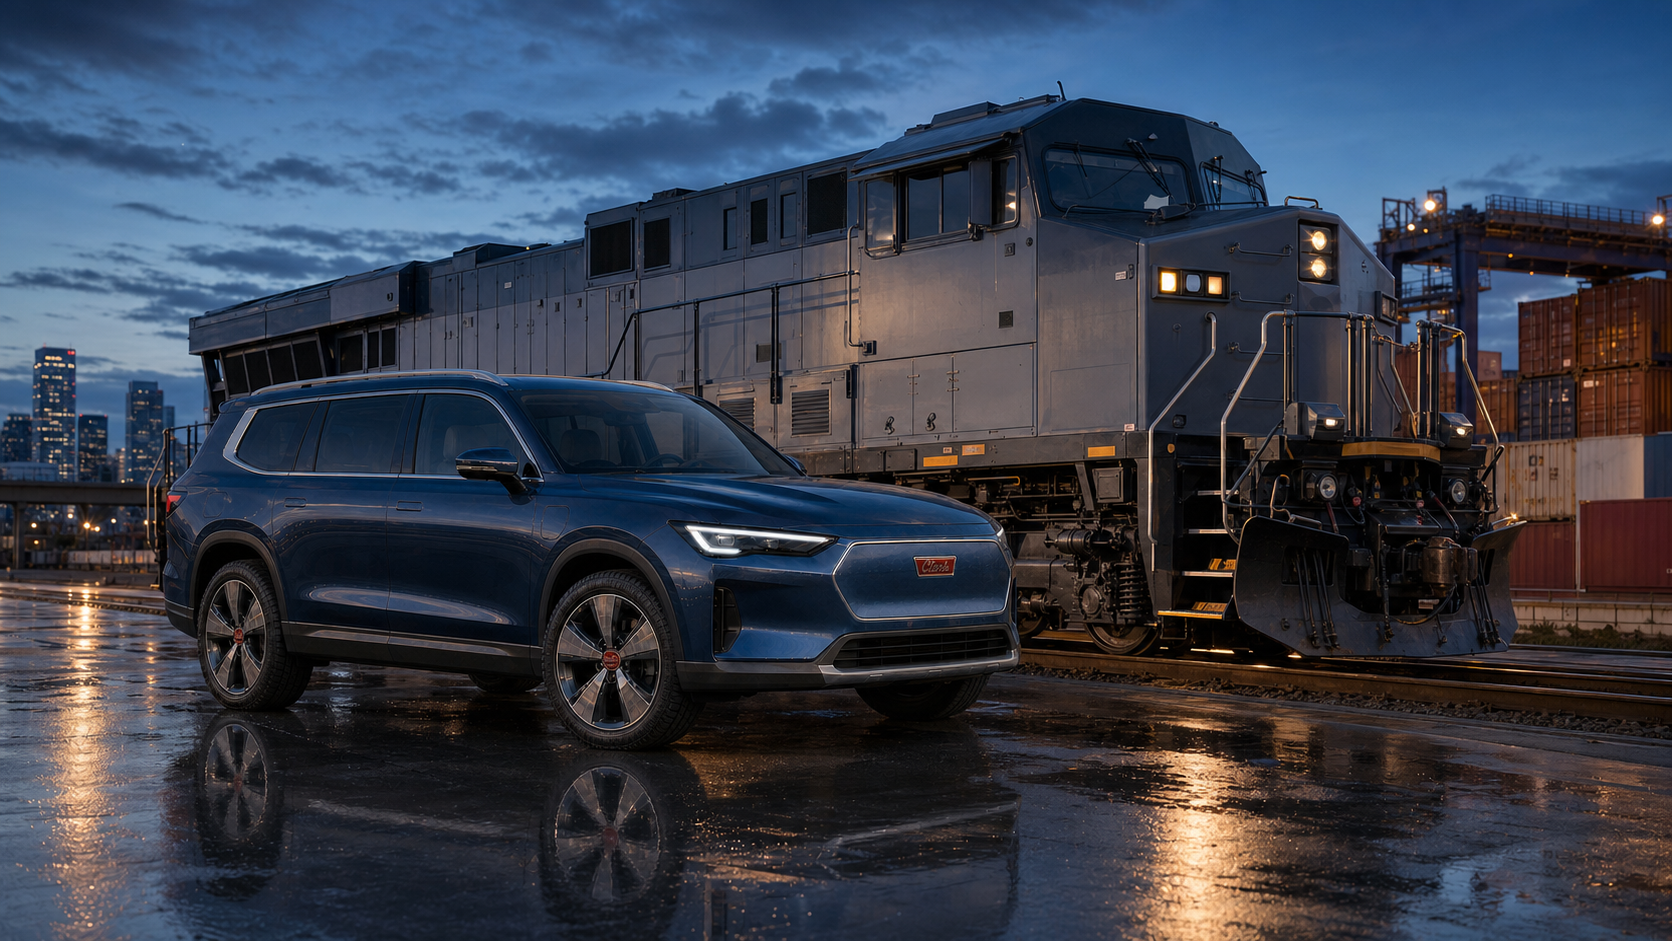
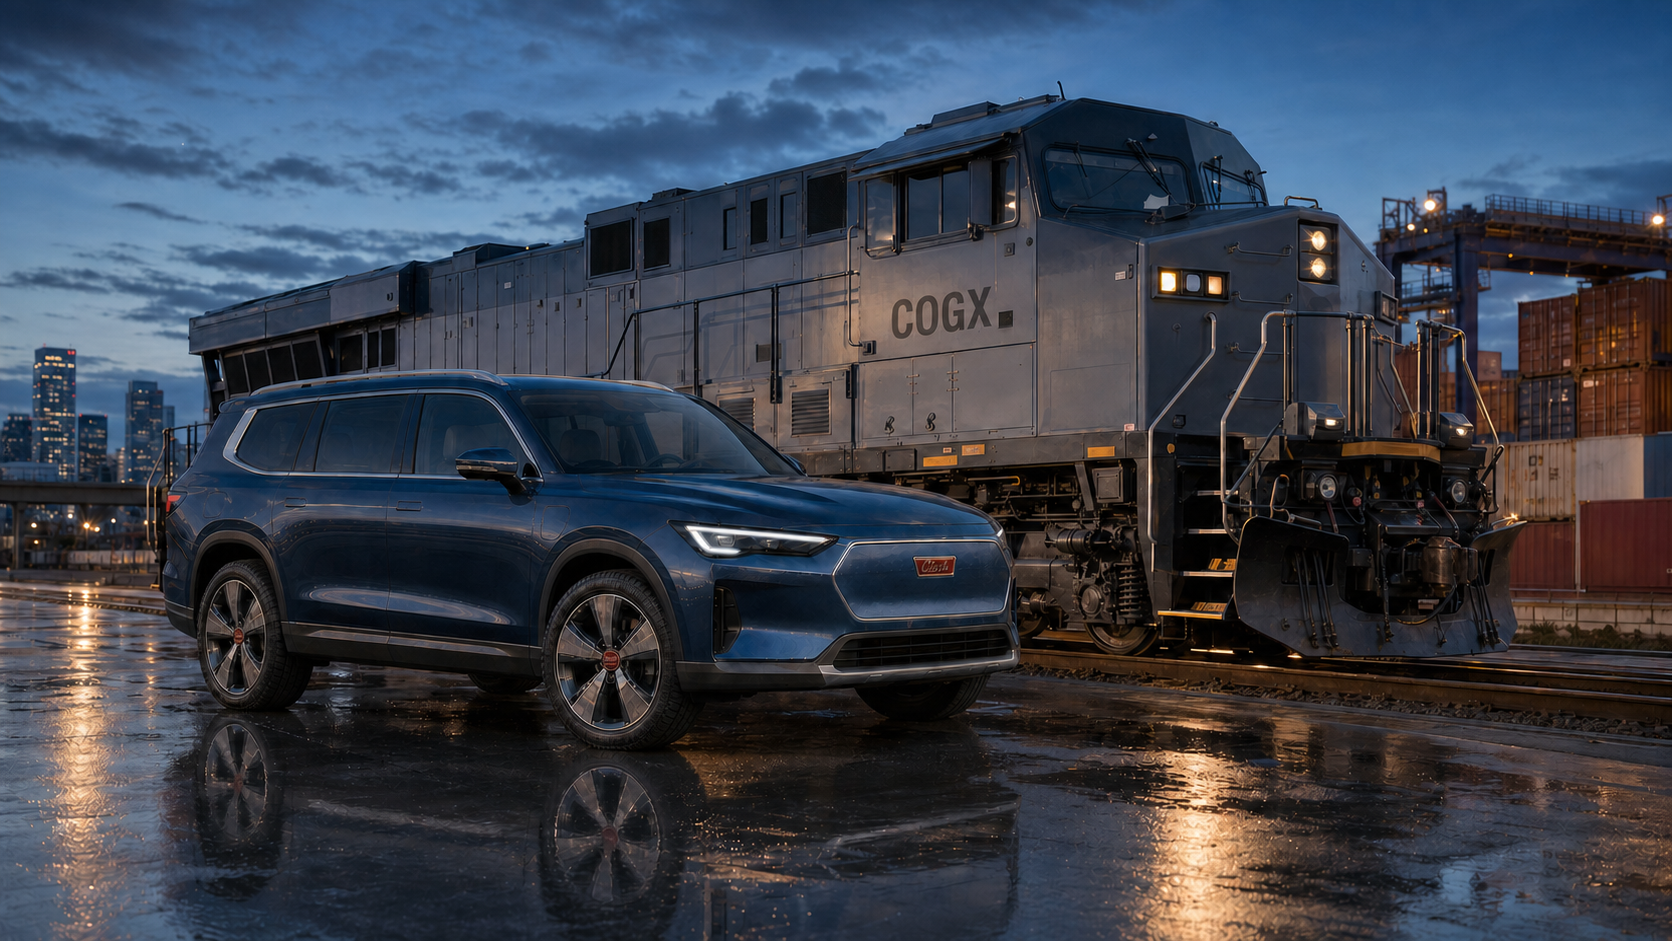
Unify Dynamo locomotive image

diff --git a/app/portfolio/project-dynamo/page.tsx b/app/portfolio/project-dynamo/page.tsx
@@ -682,7 +682,7 @@ export default function ProjectDynamoPage() {
                 alt: "Hikers returning from the Carolina woods to their pre-cooled arctic-blue XTour CUV",
                 title: "Cabin Comfort",
                 vehicle: "XTour CUV",
-                text: "Hot hikers return from the Carolina woods to a pre-cooled arctic-blue XTour CUV, ready for a relaxed drive back to Charlotte. Cabin Comfort prepares the vehicle around real conditions and return time.",
+                text: "Tired hikers return from the Carolina woods to a pre-cooled arctic-blue XTour CUV, ready for a relaxed drive back to Charlotte. Cabin Comfort prepares the vehicle around real conditions and return time.",
               },
               {
                 src: `${assetRoot}/highroad-rain-guard.png`,

diff --git a/app/portfolio/project-dynamo/models.ts b/app/portfolio/project-dynamo/models.ts
@@ -129,7 +129,7 @@ export const dynamoModels: DynamoModel[] = [
     photos: [
       { src: `${root}/suv.png`, caption: "A raised hood dome and larger wheel family add stature without changing the fascia." },
       {
-        src: `${root}/highroad-locomotive-cogx.png`,
+        src: `${root}/highroad-locomotive.png`,
         caption:
           "Beside a modern diesel-electric locomotive, the analogy becomes physical: a prime mover makes electricity; traction motors do the propelling.",
       },

diff --git a/docs/project-dynamo-publication-ledger.md b/docs/project-dynamo-publication-ledger.md
@@ -7,3 +7,9 @@
 - **Intentional web uses:** Retained vehicle imagery when it demonstrates a broader platform principle, including Cabin Intelligence, performance derivatives, passenger/cargo flexibility, and commercial adaptability.
 - **Brochure:** No corresponding change required for this web-navigation and pacing revision. The current brochure remains a separately authored static PDF.
 - **Open workflow item:** A reproducible brochure source or generator has not yet been located. Do not describe the website and PDF as automatically synchronized until one exists and a verified baseline is recorded.
+
+## 2026-08-01 — Canonical locomotive image and Cabin Comfort wording
+
+- **Shared website asset:** The main presentation and Highroad model gallery now use the same `highroad-locomotive.png` image, carrying one plain `COGX` reporting mark and no Cognisint logo.
+- **Website wording:** Cabin Comfort now describes the returning hikers as “tired,” not “hot.”
+- **Brochure:** The current brochure remains a separately authored static PDF; no reproducible source has yet been located for rebuilding it with this revised image or wording.
